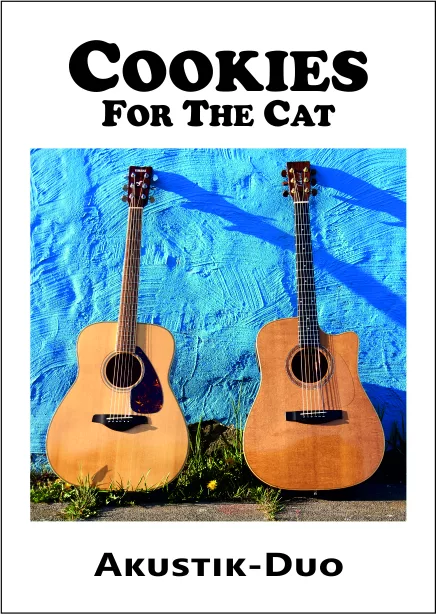
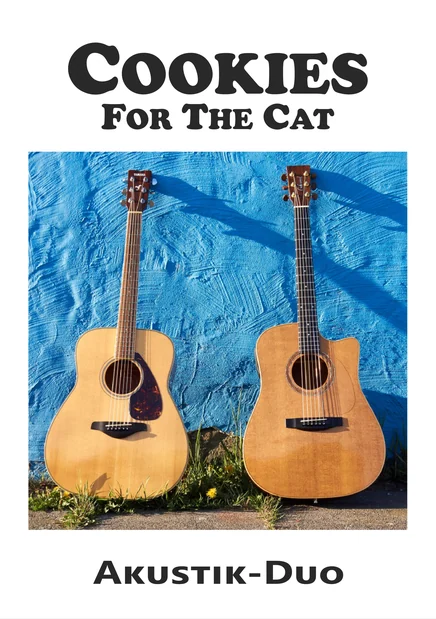
Re-render the flyer without its keyline, and give it the sheet shadow (#32)
The black line round the home page flyer was in the pixels, not the CSS —
an artefact of however that WebP was first produced. The A5 PDF it came
from is a clean white page, so the image is rendered fresh from it rather
than cropped, which avoids recompressing an already-lossy file.

58.6 KB against 66.9 KB before, at the same display size, and the aspect
is now true A5, so the image is 5px taller.

The press-kit posters already had a shadow for exactly this problem, a
white sheet on cream. That two-stop value becomes --shadow-sheet and the
flyer uses it too.

Veranstalter shows the same file and still declared the old height.

Claude-Session: https://claude.ai/code/session_01KebzD4iPMfQenk8x1mFqfK

diff --git a/assets/style.css b/assets/style.css
@@ -21,6 +21,11 @@
    * colour and not a second terracotta. 6.65:1 on the paper. */
   --color-focus: #2f5591;
 
+  /* The flyer and the press-kit posters are white sheets, and need an edge
+   * against the cream. */
+  --shadow-sheet: 0 1px 2px color-mix(in srgb, var(--color-text) 8%, transparent),
+    0 6px 18px color-mix(in srgb, var(--color-text) 10%, transparent);
+
   /* One strength for every rule on the site. 45% gold sits at 1.68:1 on the
    * paper, where the ink it replaces sat at 1.65:1, so nothing got fainter. */
   --color-rule: color-mix(in srgb, var(--color-gold) 45%, transparent);
@@ -412,11 +417,9 @@ main > .visually-hidden + * {
   line-height: 0;
 }
 
-/* The posters are white sheets and need an edge against the cream. */
 .kit img {
   width: 100%;
-  box-shadow: 0 1px 2px color-mix(in srgb, var(--color-text) 8%, transparent),
-    0 6px 18px color-mix(in srgb, var(--color-text) 10%, transparent);
+  box-shadow: var(--shadow-sheet);
 }
 
 .kit-title {
@@ -579,6 +582,17 @@ main > .visually-hidden + * {
 /* The display width sits in the img attributes, so it holds without CSS. */
 .centred {
   text-align: center;
+}
+
+/* The flyer, at the size it was drawn for. */
+.flyer {
+  max-width: 436px;
+  margin-inline: auto;
+}
+
+.flyer img {
+  width: 100%;
+  box-shadow: var(--shadow-sheet);
 }
 
 /* Wider than the text under it; 800px is 2x the 1600px file. */

diff --git a/index.html b/index.html
@@ -68,8 +68,8 @@
 <main id="inhalt" class="wrap">
   <h1 class="visually-hidden">Cookies For The Cat</h1>
 
-  <figure class="centred"><img src="assets/img/startseite.webp" fetchpriority="high"
-    width="436" height="614"
+  <figure class="flyer"><img src="assets/img/startseite.webp" fetchpriority="high"
+    width="436" height="619"
     alt="Cookies For The Cat: Volkmar Steffen und Tula Kratzmann mit ihren Akustikgitarren."></figure>
 
   <!-- NEXT:START — generated by skripte/termine.py. -->

diff --git a/veranstalter/index.html b/veranstalter/index.html
@@ -125,7 +125,7 @@
     <li>
       <figure>
         <a href="../assets/files/flyer-a5.pdf" aria-label="Flyer A5 als PDF ansehen">
-          <img src="../assets/img/startseite.webp" alt="Flyer im Format A5." width="436" height="614" loading="lazy">
+          <img src="../assets/img/startseite.webp" alt="Flyer im Format A5." width="436" height="619" loading="lazy">
         </a>
         <figcaption>
           <a class="kit-title" href="../assets/files/flyer-a5.pdf" download>Flyer A5</a>
